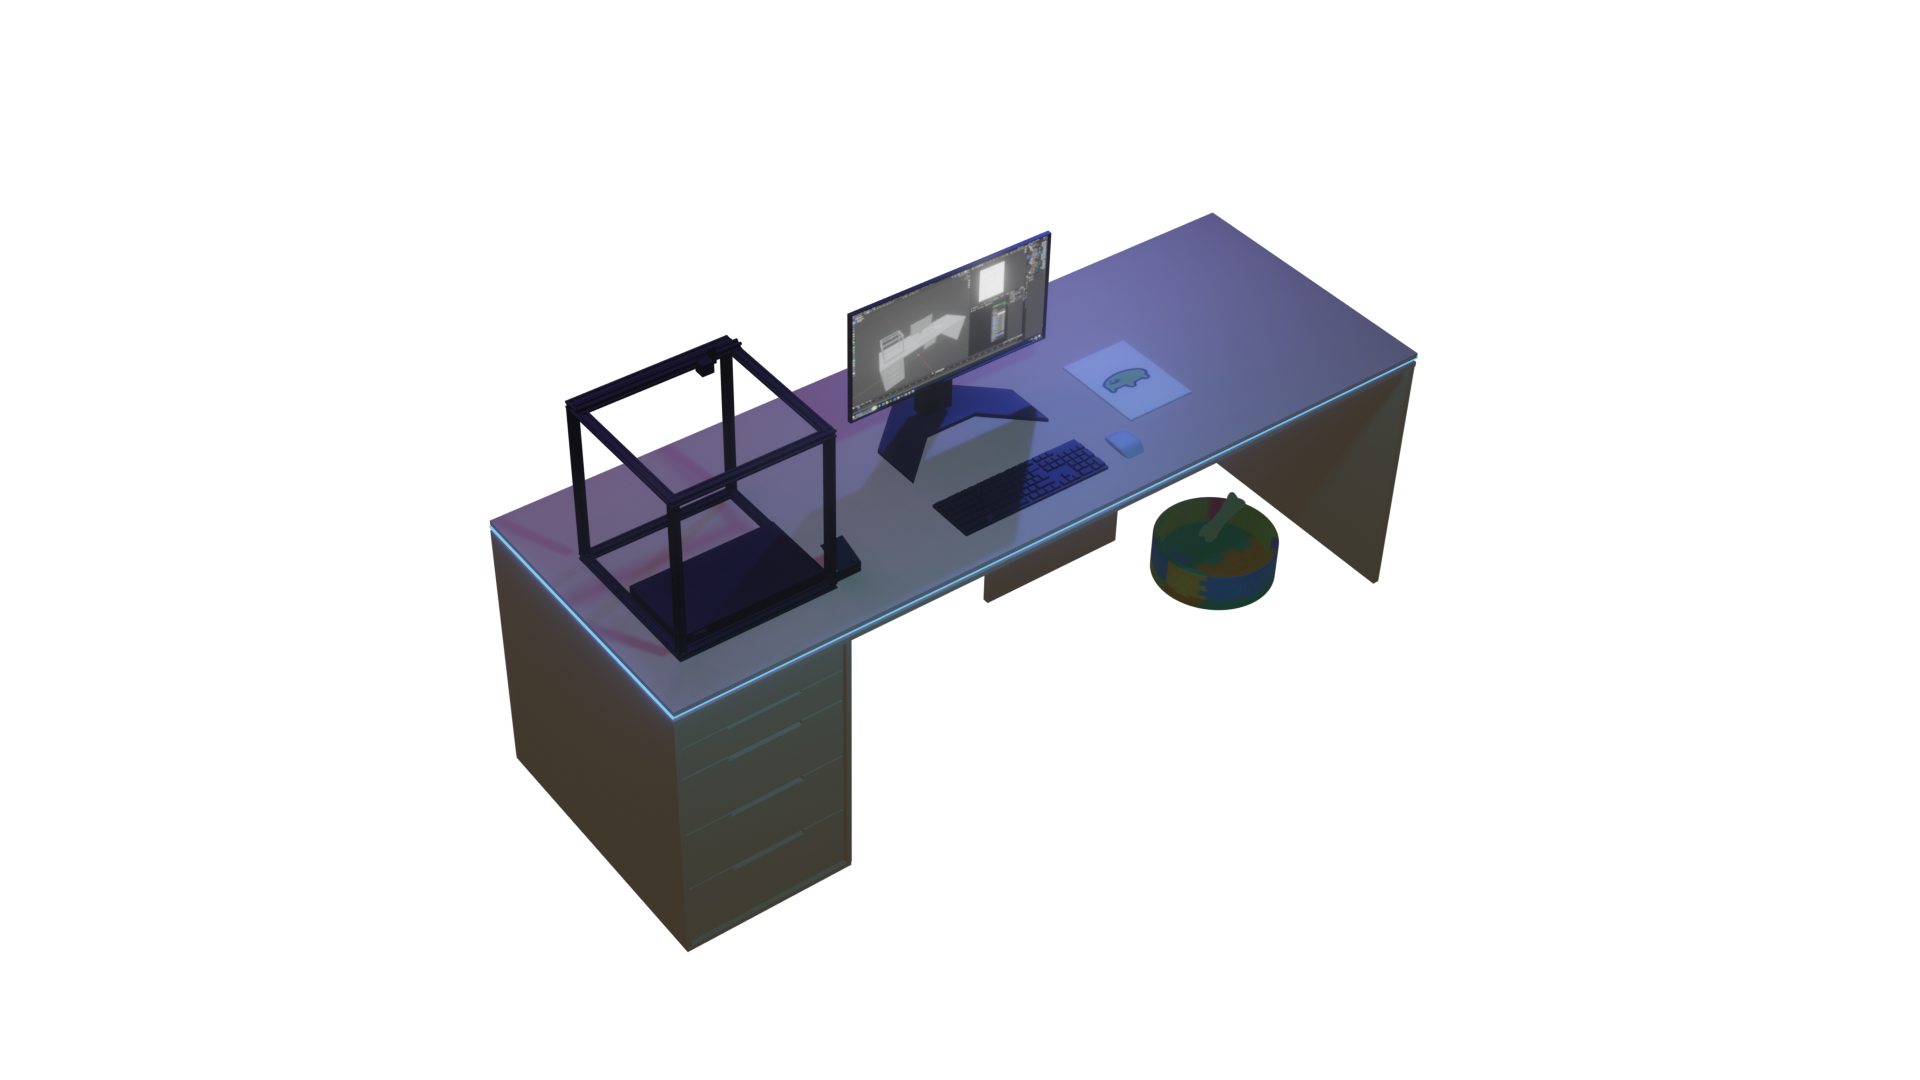
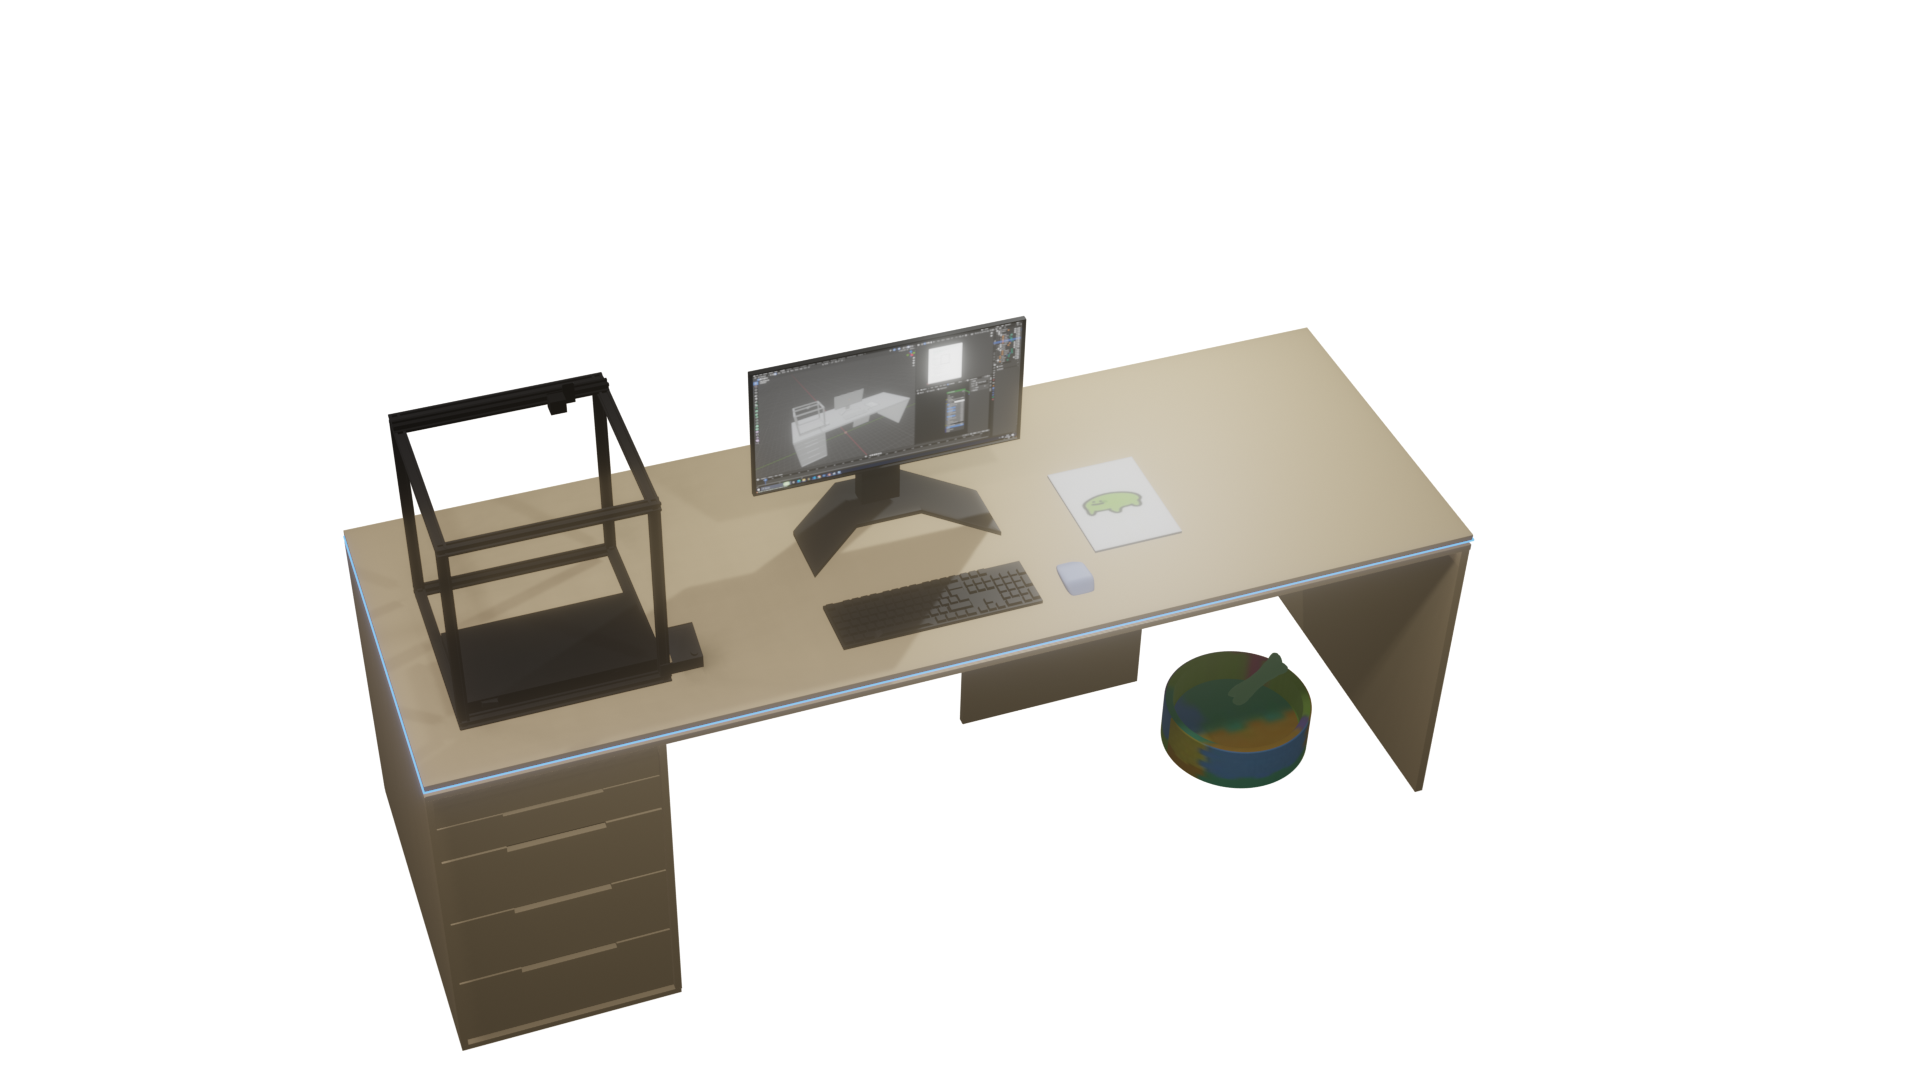
new desktop img

Changed region(s): [[0.1562, 0.1833, 0.7812, 0.9778]]

diff --git a/src/views/HomeView.vue b/src/views/HomeView.vue
@@ -25,20 +25,20 @@ gsap.to("#image",{
   <main>
     <div>
 
-    <div class=" flex flex-col-reverse md:flex-row h-screen w-screen items-center mx-auto px-6 md:mt-10 space-y-0 md:space-y-5 dark:text-white font-Roboto">
+    <div class=" flex flex-col-reverse md:flex-row h-screen w-screen items-center mx-auto px-6 md:mt-10 space-y-0 md:space-y-5 dark:text-white font-Bruno">
       <!-- Left Side -->
-      <div class=" flex flex-col items-center  space-y-4 md:space-y-4 md:w-2/3 h-screen md:my-auto md:mx-20 md:pt-44">
-        <h1 class=" transition-all flex mx-auto text-center font-bold text-3xl md:text-6xl md:text-left">  <h1 class="text-curriculum-primary text-2xl sm:text-3xl md:text-4xl xl:text-6xl text-center font-bold md:text-left dark:text-violet-600">Desarrollador front-end</h1></h1>
+      <div class=" flex flex-col items-center  space-y-4 md:space-y-4 md:w-2/3 h-screen md:my-auto md:mx-20 md:pt-56">
+        <h1 class=" transition-all flex mx-auto text-center font-bold text-3xl md:text-6xl md:text-left font-Bruno">  <h1 class="text-curriculum-primary text-2xl sm:text-3xl md:text-4xl xl:text-6xl text-center font-bold md:text-left dark:text-violet-600">Creando experiencias digitales atractivas</h1></h1>
         
-        <p  class="mx-auto text-center text-sm sm:text-base md:text-lg xl:text-xl text-black font-bold md:text-left dark:text-gray-300 dark:font-bold">Mi enfoque combina diseño y funcionalidad para ofrecer soluciones de alta calidad que conectan con los usuarios. <a class="hidden lg:flex">Con experiencia en tecnologías web modernas y herramientas de desarrollo, creo sitios web y aplicaciones interactivas y atractivas.</a> </p>
+        <p  class="mx-auto text-center font-Roboto text-sm sm:text-base md:text-lg xl:text-xl text-black font-bold md:text-left dark:text-gray-300 dark:font-bold">Mi enfoque combina diseño y funcionalidad para ofrecer soluciones de alta calidad que conectan con los usuarios. <a class="hidden lg:flex">Con experiencia en tecnologías web modernas y herramientas de desarrollo, creo sitios web y aplicaciones interactivas y atractivas.</a> </p>
       
       </div>
       <!-- Right Side -->
       <div class=" items-center flex flex-col md:my-auto md:pt-16 md:h-screen md:w-screen   transition-all z-40 ">
            <div>
             
-            <img id="image" ref="desktop" src="/untitled.png" alt="No image found lol" class=" max-h-full m-auto pb-10  object-scale-down md:block transition-all z-30">
-          
+            <img id="image" v-if="isDark" ref="desktop" src="/untitled1.png" alt="No image found lol" class=" m-auto  pt-10 h-3/4 object-scale-down md:block transition-all z-30">
+            <img id="image" v-if="!isDark" ref="desktop" src="/untitled2.png" alt="No image found lol" class=" m-auto  pt-10 h-3/4 object-scale-down md:block transition-all z-30">
            </div>
     </div>
     </div>

diff --git a/src/App.vue b/src/App.vue
@@ -32,7 +32,7 @@
      
       </button>
     </div>
-  <header>
+  <header class="">
     <nav class="h-30 w-screen  space-x-8 pr-36 pt-8 flex justify-end sm:flex-row relative">  
       <div class="h-20 w-20 mt-4 md:mt-0 ml-10 flex-1">
         <RouterLink to="/">
@@ -85,12 +85,13 @@
 
   <!-- Page content -->
   
-  <RouterView v-slot="{Component}" class="overflow-hidden transition-all">
+  <RouterView v-slot="{Component}" class="overflow-hidden transition-all flex flex-1">
     <Transition name="fade" mode="out-in">
       <component :is="Component" />
     </Transition>
   </RouterView>
 </div>
+
 
 </template>
 <script type="module" setup lang="ts">

diff --git a/index.html b/index.html
@@ -5,7 +5,7 @@
     <link rel="icon" href="/Favicon.png">
     <link rel="preconnect" href="https://fonts.googleapis.com">
 <link rel="preconnect" href="https://fonts.gstatic.com" crossorigin>
-<link href="https://fonts.googleapis.com/css2?family=Roboto:wght@100&display=swap" rel="stylesheet">
+<link href="https://fonts.googleapis.com/css2?family=Bruno+Ace&family=Roboto:wght@100&display=swap" rel="stylesheet">
     <meta name="viewport" content="width=device-width, initial-scale=1.0">
     <title>Almada Matias Resume - Contact me for freelance information</title>
   </head>

diff --git a/tailwind.config.js b/tailwind.config.js
@@ -18,6 +18,7 @@ module.exports = {
     },
     fontFamily: {
       Roboto: ["Roboto, sans-serif"],
+      Bruno: ["Bruno Ace, cursive"],
     },
     container: {
       padding: "2rem",
